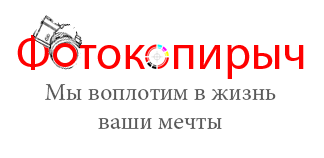
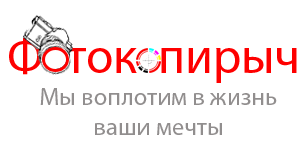
button fixes; transparent bkg; sexier look

Changed region(s): [[0.0292, 0.0784, 0.9643, 0.7059], [0.2922, 0.732, 0.7305, 0.8889]]

diff --git a/src/com/printapp/edit/Step1.java b/src/com/printapp/edit/Step1.java
@@ -45,7 +45,7 @@ public class Step1 extends JPanel{
 
     public void init(){
 
-        bannerImg = ImageResource.getImageIcon("logo1.jpg").getImage();
+        bannerImg = ImageResource.getImageIcon("logo1.png").getImage();
 
         i18nSwitchBtn = new JButton(){
             public String getText() {
@@ -84,11 +84,11 @@ public class Step1 extends JPanel{
         bannerPanel = new JPanel(){
             protected void paintComponent(Graphics g) {
                 super.paintComponent(g);
-                g.drawImage(bannerImg, 0, 1, getWidth() - 2, getHeight() - 2, this);
+                g.drawImage(bannerImg, 0, 0, getWidth(), 71, this);
             }
         };
 
-        bannerPanel.setPreferredSize(new Dimension(50, 44));
+        bannerPanel.setPreferredSize(new Dimension(50, 73));
 
         JPanel tmpPanel = new JPanel(new GridBagLayout());
         Utils.constrain(tmpPanel, bannerPanel, 0, 0, 3, 1, GridBagConstraints.BOTH, GridBagConstraints.NORTHWEST, 1, 1, 1, 1, 1, 1);
@@ -107,8 +107,8 @@ public class Step1 extends JPanel{
         centerLeftPanel = new JPanel(){
             protected void paintComponent(Graphics g) {
                 super.paintComponent(g);
-                g.drawImage(topLeftImg, 2, 2, getWidth()-4, getHeight() / 2 - 8, this);
-                g.drawImage(bottomLeftImg, 2, getHeight() / 2 + 4, getWidth() - 4, getHeight() / 2 - 16, this);
+                g.drawImage(topLeftImg, (getWidth() - 292) / 2, 2 + 10, 292, 250, this);
+                g.drawImage(bottomLeftImg, (getWidth() - 308) / 2, getHeight() / 2 + 4 + 10, 308, 153, this);
             }
         };
 
@@ -186,8 +186,8 @@ public class Step1 extends JPanel{
         panel.setLayout(new BorderLayout());
         panel.add(btn, BorderLayout.CENTER);
         panel.setBorder(BorderFactory.createEmptyBorder(10, 0, 10, 0));
-        panel.setMaximumSize(new Dimension(180, 60));
-        panel.setSize(new Dimension(180, 60));
+        panel.setMaximumSize(new Dimension(180, 50));
+        panel.setSize(new Dimension(180, 50));
         return panel;
     }
 }

diff --git a/src/com/printapp/dialog/MainFrame.java b/src/com/printapp/dialog/MainFrame.java
@@ -51,6 +51,7 @@ public class MainFrame extends JFrame implements MainPanel {
         });
 
         exitBtn.setContentAreaFilled(false);
+        exitBtn.setBorderPainted(false);
         exitBtn.setIcon(ImageResource.getImageIcon("Delete24.gif"));
         Utils.setupHyperlinkView(exitBtn);
         
